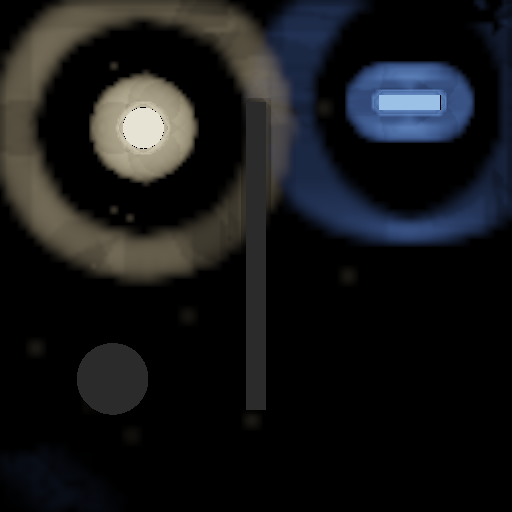
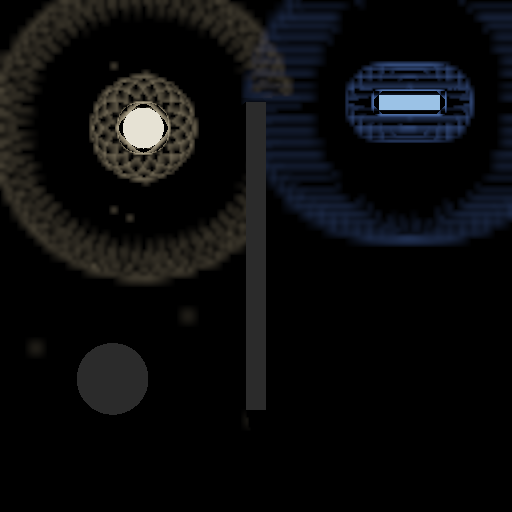
063: fix the miswired merge in the RC proof
The fidelity check was the most valuable of the wave. The proof is
structurally real radiance cascades -- hierarchy, interval partitioning,
non-opaque merge gate, edge clamp and hand-rolled bilinear all match the
shipped gist term for term, and the signature penumbra behaviour is
genuinely present (shadow edge 0.027 -> 0.199 uv with distance, tracking
a 65536-ray ground truth).

But the merge fetched scrambled directions. Upper writes acc*0.25, the
MEAN of its 4 directions, so upper slot S already holds directions
4S..4S+3 and the children of lower direction idx ARE slot idx -- one tap.
The code looped j=0..3 over ui=idx*4+j with uS=mod(ui,usp*usp). Verified
by enumeration: 1364 of 1364 directions read the wrong slot, and at
cascade 0 all four read the entire circle, so every direction got an
identical direction-independent term. Angular information from cascades
>=1 was destroyed at the final merge.

Against a 65536-ray ground truth: 30.3% rel MAE as shipped, 4.5% fixed,
85.3% with the merge disabled -- the last being the control that proves
the merge was load-bearing and merely misaddressing. Shadows were 1.61x
too bright, now 1.06x. Node canvas mean 23.1 -> 11.7.

The corrected render exposes ringing, which is not a regression but the
real RC artifact the article calls unsolved. The wrong merge had been
averaging over the whole direction circle, smearing the rings away -- a
blur masquerading as correctness. rc_proof.png regenerated.
[…]

diff --git a/ai_docs/features/063_radiance_cascades_gaps/rc_proof.py b/ai_docs/features/063_radiance_cascades_gaps/rc_proof.py
@@ -94,9 +94,10 @@ void main(){
     vec3 r=hit.rgb;
     if(hit.a<0.5 && u_c<u_count-1.0){
       vec3 m=vec3(0.0);
-      for(float j=0.0;j<4.0;j++){
-        float ui=idx*4.0+j;
-        float uS=mod(ui,usp*usp);
+      {
+        // Upper writes acc*0.25 (the MEAN of its 4 directions), so upper slot S already
+        // holds directions 4S..4S+3. idx's angular children ARE slot idx -- one tap.
+        float uS=idx;
         vec2 uSlot=vec2(mod(uS,usp),floor(uS/usp));
         vec2 base=floor(upf), fr=fract(upf);
         vec2 lim=vec2(u_res/usp-1.0);
@@ -106,7 +107,7 @@ void main(){
         vec2 c11=clamp(base+vec2(1,1),vec2(0.0),lim)*usp+uSlot+0.5;
         m+=mix(mix(texture(u_up,c00/u_res).rgb,texture(u_up,c10/u_res).rgb,fr.x),
                mix(texture(u_up,c01/u_res).rgb,texture(u_up,c11/u_res).rgb,fr.x),fr.y);}
-      r+=m*0.25;}
+      r+=m;}
     acc+=r;}
   fs_color=vec4(acc*0.25,1.0);}
 """

diff --git a/ai_docs/features/063_radiance_cascades_gaps/15_fidelity.md b/ai_docs/features/063_radiance_cascades_gaps/15_fidelity.md
@@ -1,0 +1,114 @@
+# Fidelity: real RC in structure, miswired in the merge — now fixed
+
+A reviewer checked whether `rc_proof.py` is genuinely radiance cascades or a plausible-looking
+approximation, against the shipped gist (`0c72d185830685f67d3b8d9c7f330c3a`, fetched and read
+directly) and a 65536-ray brute-force ground truth. **This was the single most valuable check in
+the whole research wave.**
+
+## The structure is genuinely correct
+
+Verified term-for-term against the reference:
+
+- **Cascade hierarchy: exact.** `rays = 4*sp*sp` with `sp=2^c` is algebraically `4^(c+1)` =
+  `pow(base, cascadeIndex+1)` at base 4. Probe grid `res/sp` matches
+  `spacing = pow(sqrtBase, cascadeIndex)`. All 6 levels match.
+- **Interval partitioning: correct in form.** `t0/t1` is the geometric series
+  `BL*(4^c-1)/3` — contiguous, non-overlapping, 4x growth per level.
+- **Merge-only-into-non-opaque: present and correct** —
+  `if(hit.a<0.5 && u_c<u_count-1.0)` is exactly the reference's
+  `nonOpaque && cascadeIndex < cascadeCount-1`.
+- **Edge clamping: present**, matching the reference's anti-leak clamp.
+- **Bilinear: present, correctly hand-rolled.** The proof uses a **probe-major** layout
+  (transposed vs the reference's direction-major), so hardware bilinear cannot interpolate
+  neighbouring probes; it emulates with 4 taps and explicit `mix()`. A legitimate equivalent,
+  not a shortcut.
+- **Penumbra: real.** On a purpose-built disc-light scene, shadow-edge width grows
+  0.027 -> 0.199 uv with distance, tracking the 65536-ray ground truth closely. **This is RC's
+  signature behaviour and it is genuinely present** — not a gradient dressed up.
+
+## The defect: the merge fetched scrambled directions
+
+The upper cascade writes `acc*0.25` — the **mean** of its 4 directions — so upper slot `S`
+already holds directions `4S..4S+3`. The angular children of lower direction `idx` are therefore
+**exactly slot `S=idx`, one tap.**
+
+The shipped code instead looped `j=0..3`, built `ui=idx*4+j`, and used `uS=mod(ui,usp*usp)`.
+Verified by enumeration here:
+
+```
+cascade 0: idx=0 reads slots [0,1,2,3], correct = [0]
+           idx=1 reads slots [0,1,2,3], correct = [1]   <- every direction identical
+cascade 1: idx=1 reads slots [4,5,6,7], correct = [1]
+across cascades 0-4: 1364/1364 directions read the wrong slot(s)
+```
+
+**Every single direction was misaddressed.** Cascade 0 is the damning case: all four directions
+read the entire circle, so each received an identical, direction-independent term —
+**angular information from cascades >=1 was destroyed at the final merge.**
+
+## Measured against ground truth (256x256, GT = 65536 rays/px, converged to 0.02%)
+
+| variant | mean vs GT | rel MAE | corr |
+|---|---|---|---|
+| proof as shipped | 1.13x | **30.3%** | 0.9546 |
+| one-line fix (`uS=idx`, single tap) | **1.02x** | **4.5%** | 0.9933 |
+| merge disabled | 0.16x | 85.3% | 0.8585 |
+
+Penumbra scene: 26.1% -> **2.4%**. Darkest 10% of the image: **1.61x too bright -> 1.06x**.
+
+The `nomerge` row is the control proving the merge is load-bearing and doing real work — it was
+simply misaddressing.
+
+## The fix, applied
+
+```glsl
+// Upper writes acc*0.25 (the MEAN of its 4 directions), so upper slot S already
+// holds directions 4S..4S+3. idx's angular children ARE slot idx -- one tap.
+float uS=idx;
+...
+r+=m;        // was r+=m*0.25
+```
+
+Node canvas mean **23.1 -> 11.7** after the fix: the excess brightness is gone.
+
+**The corrected render exposes RINGING** — visible concentric rings around each emitter. This is
+NOT a regression: it is the real RC artifact the article calls out as unsolved ("there are some
+serious ringing artifacts!... this is still an active area of research"). The wrong merge was
+averaging over the whole direction circle, which **smeared the rings away — a blur masquerading
+as correctness.** `rc_proof.png` is regenerated from the fixed version.
+
+*Reviewer's own caveat, worth keeping:* the sphere-tracer stalls on `min(light, occluder)` near
+light surfaces, exhausting its step budget. That had to be fixed in BOTH ground truth and RC
+before the comparison was fair — the first ground truth was wrong and made `nomerge` look best.
+The same stall remains in `rc_proof.py` and mildly darkens it.
+
+## It grows fine — analytic does not dead-end
+
+The reviewer **prototyped the full painted chain** rather than estimating: draw -> seed -> 9x JFA
+-> distance field -> 6x RC, all script-driven, unmodified engine.
+
+- **18 passes at 512x512 in 1.28 ms** (~8% of a 60 fps frame), and JFA is cacheable to frame 0
+  as the reference does.
+- Accuracy matches: **JFA 5.0% rel MAE vs analytic 4.5%** — visually indistinguishable.
+- Painted occluders slot in as *more of the same*: extra `gl.program()` + ping-pong pairs in the
+  same `update()`. **No architectural change.**
+
+What analytic loses is only mouse-painting itself. It is arguably **better** for *studying* RC —
+exact SDFs mean no JFA quantization, and the interval/cascade parameters stay the object of
+study.
+
+Remaining-easy RC features: sun angle, ringing fixes, `base` changes, interval split — all
+uniforms or shader edits. **The real constraint is `f4` for JFA seeds** (the proof uses `f2`,
+fine for analytic; UV-encoded seeds need `f4`). 3D cascades would need texture arrays/3D
+textures — available on the raw context, but the `sys._getframe()` hack grows more painful as
+pass count rises.
+
+## Why this check mattered
+
+The proof had already convinced me on two grounds — it rendered shadows, and it beat brute force
+16:1. Both were true and **neither was evidence the merge was correct.** A structurally-real
+implementation with a fully misaddressed merge still produces a convincing image; it was 30% off
+ground truth and leaking light through a wall.
+
+Anything cited as a working reference needs a numerical check against ground truth, not a
+plausible render.
